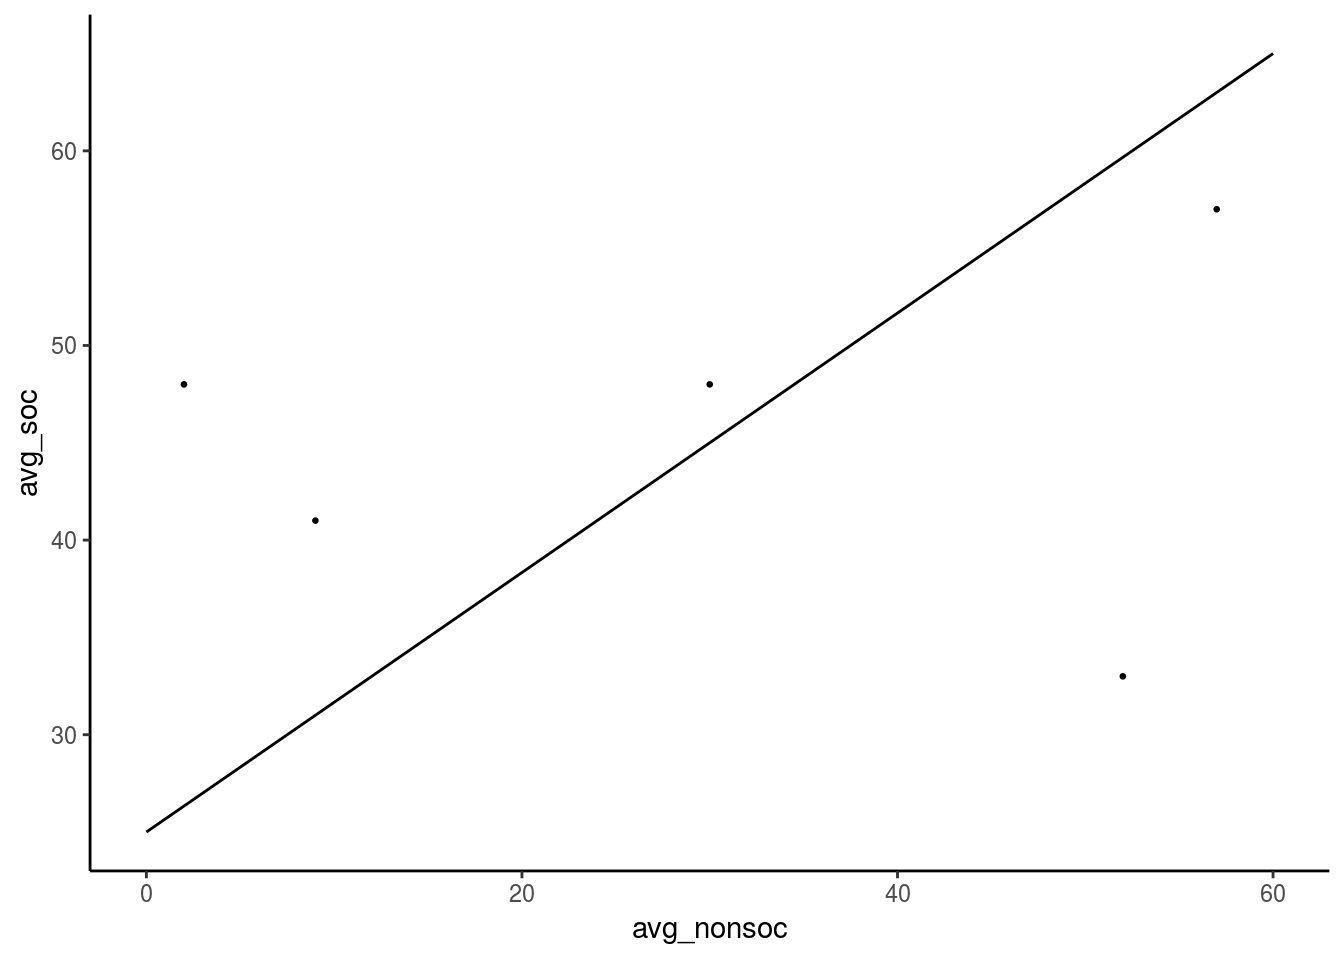
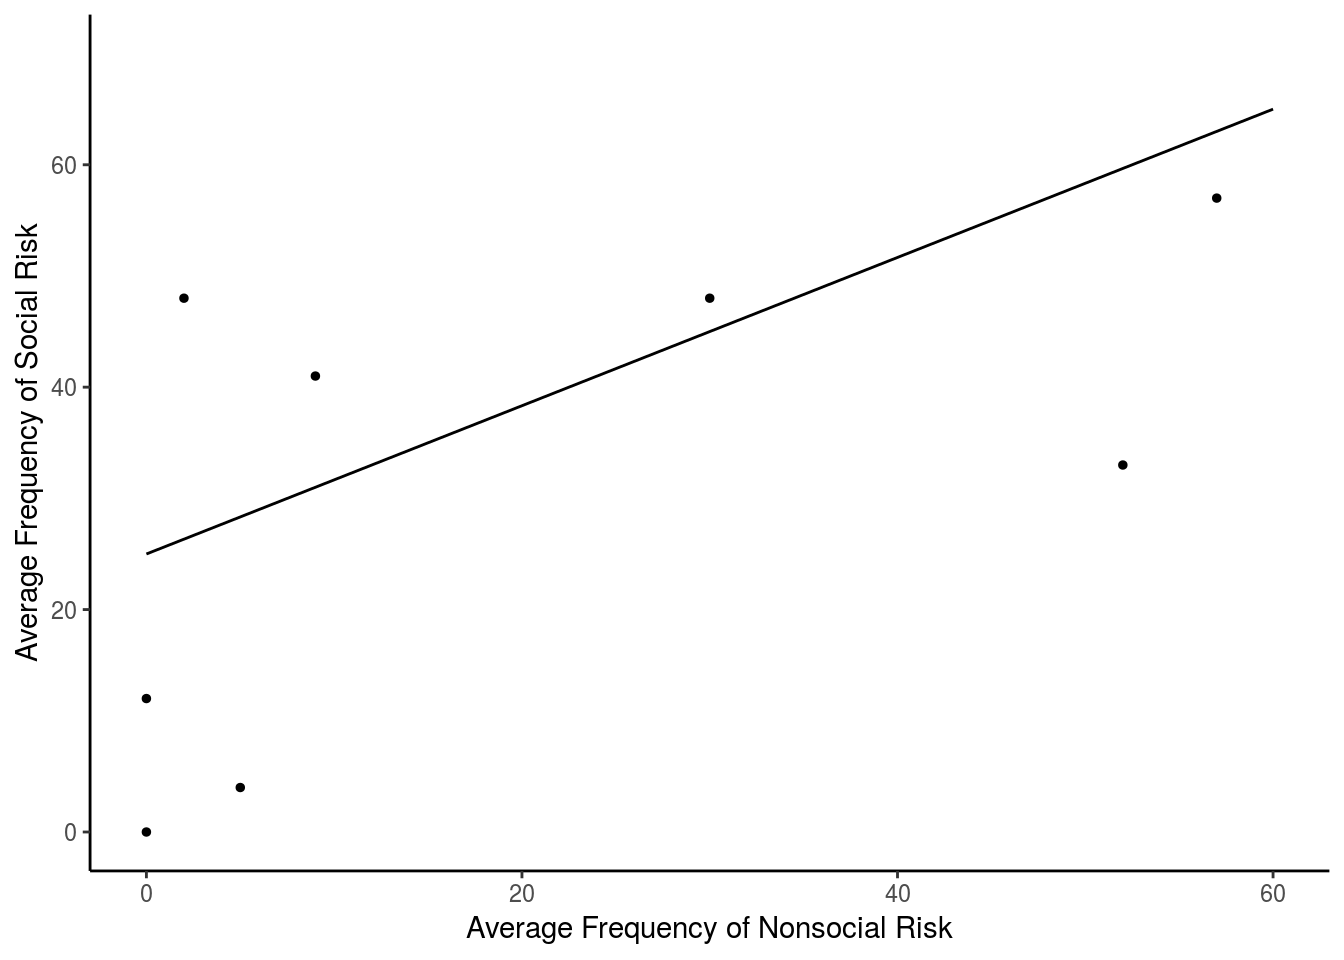
Trying to figure out the axis

diff --git a/docs/Plots.html b/docs/Plots.html
@@ -447,12 +447,15 @@ ggplot(plot_df, aes(condition,mean_frequency,group=names,linetype=adversity))+ge
 <h3>Average Frequency of Social Risks</h3>
 <pre class="r"><code>avg_nonsoc&lt;-c(0,60)
 avg_soc&lt;-c(25,65)
-ad_avg_nonsoc&lt;-c(0,2,5,9,30,52,57,67)
-ad_avg_soc&lt;-c(12,48,4,41,48,33,57,59)
+ad_avg_nonsoc&lt;-c(0,0,2,5,9,30,52,57,67)
+ad_avg_soc&lt;-c(0,12,48,4,41,48,33,57,59)
 plot_da&lt;-data.frame(avg_nonsoc,avg_soc)
 plot_db&lt;-data.frame(ad_avg_nonsoc,ad_avg_soc)
 
-ggplot(plot_da)+geom_line(mapping = aes(avg_nonsoc,avg_soc))+geom_point(data =plot_db ,x=ad_avg_nonsoc,y=ad_avg_soc, size=.5)+theme_classic()</code></pre>
+c&lt;-ggplot(plot_da)+geom_line(mapping = aes(avg_nonsoc,avg_soc))+geom_point(data =plot_db ,x=ad_avg_nonsoc,y=ad_avg_soc, size=1)+theme_classic()
+
+
+c+labs(x=&quot;Average Frequency of Nonsocial Risk&quot;,y=&quot;Average Frequency of Social Risk&quot;)+scale_y_continuous(limits = c(0,70))</code></pre>
 <p><img src="Plots_files/figure-html/unnamed-chunk-4-1.png" width="672" /></p>
 </div>
 </div>
